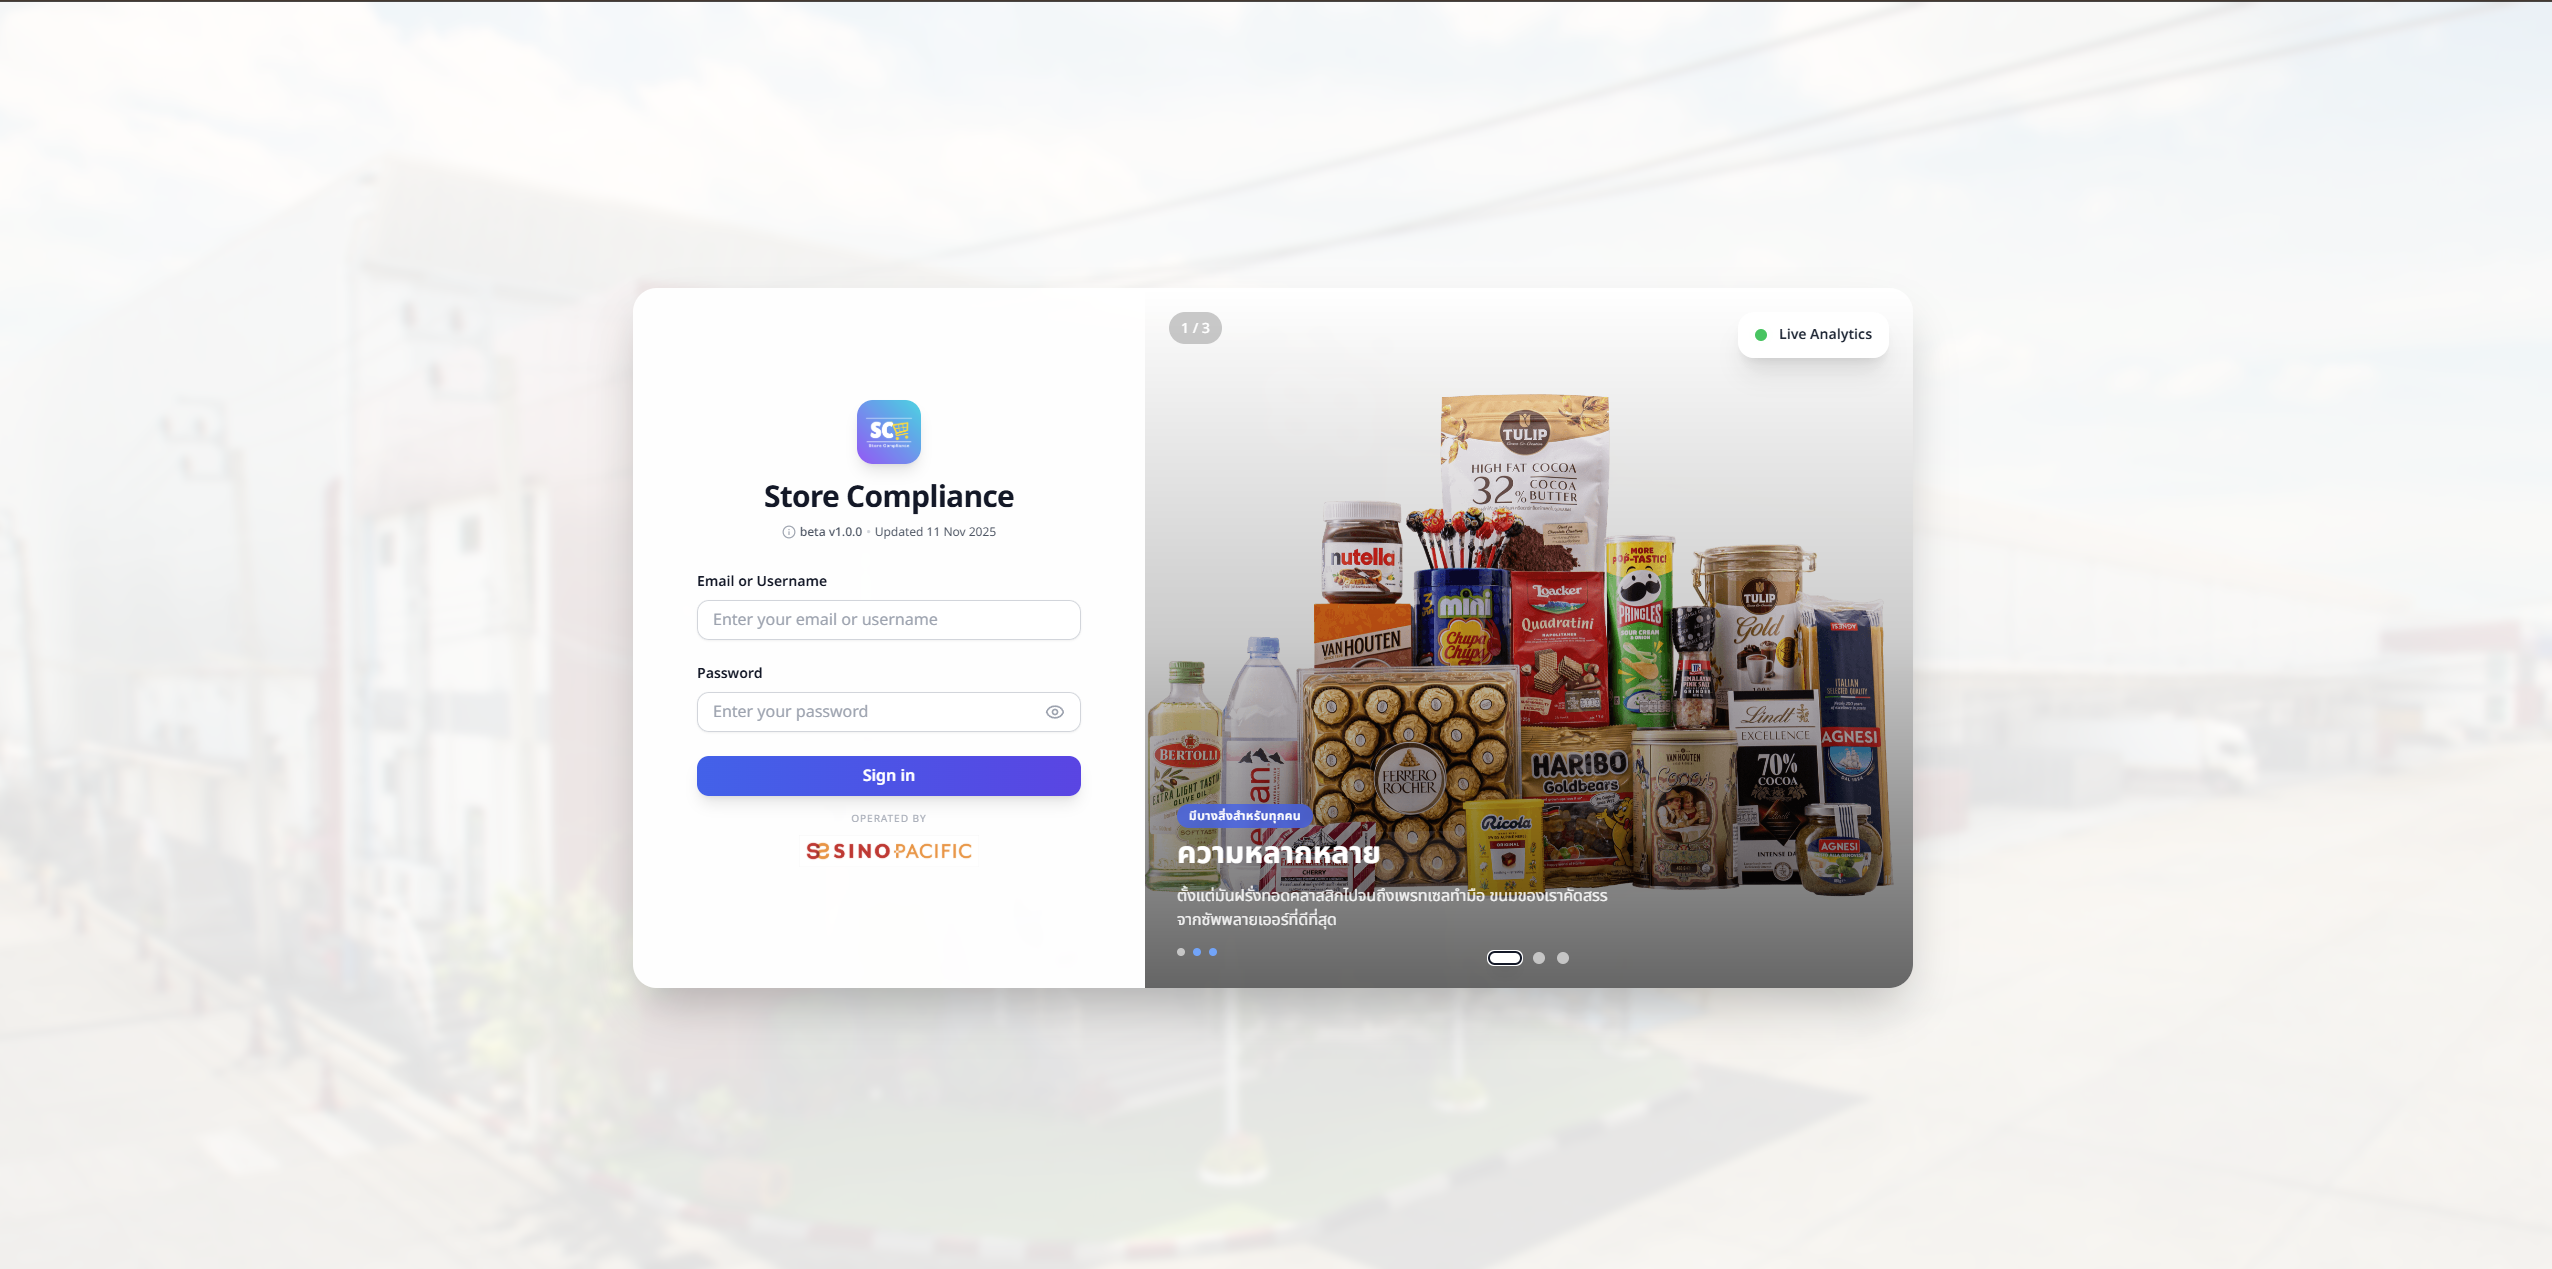
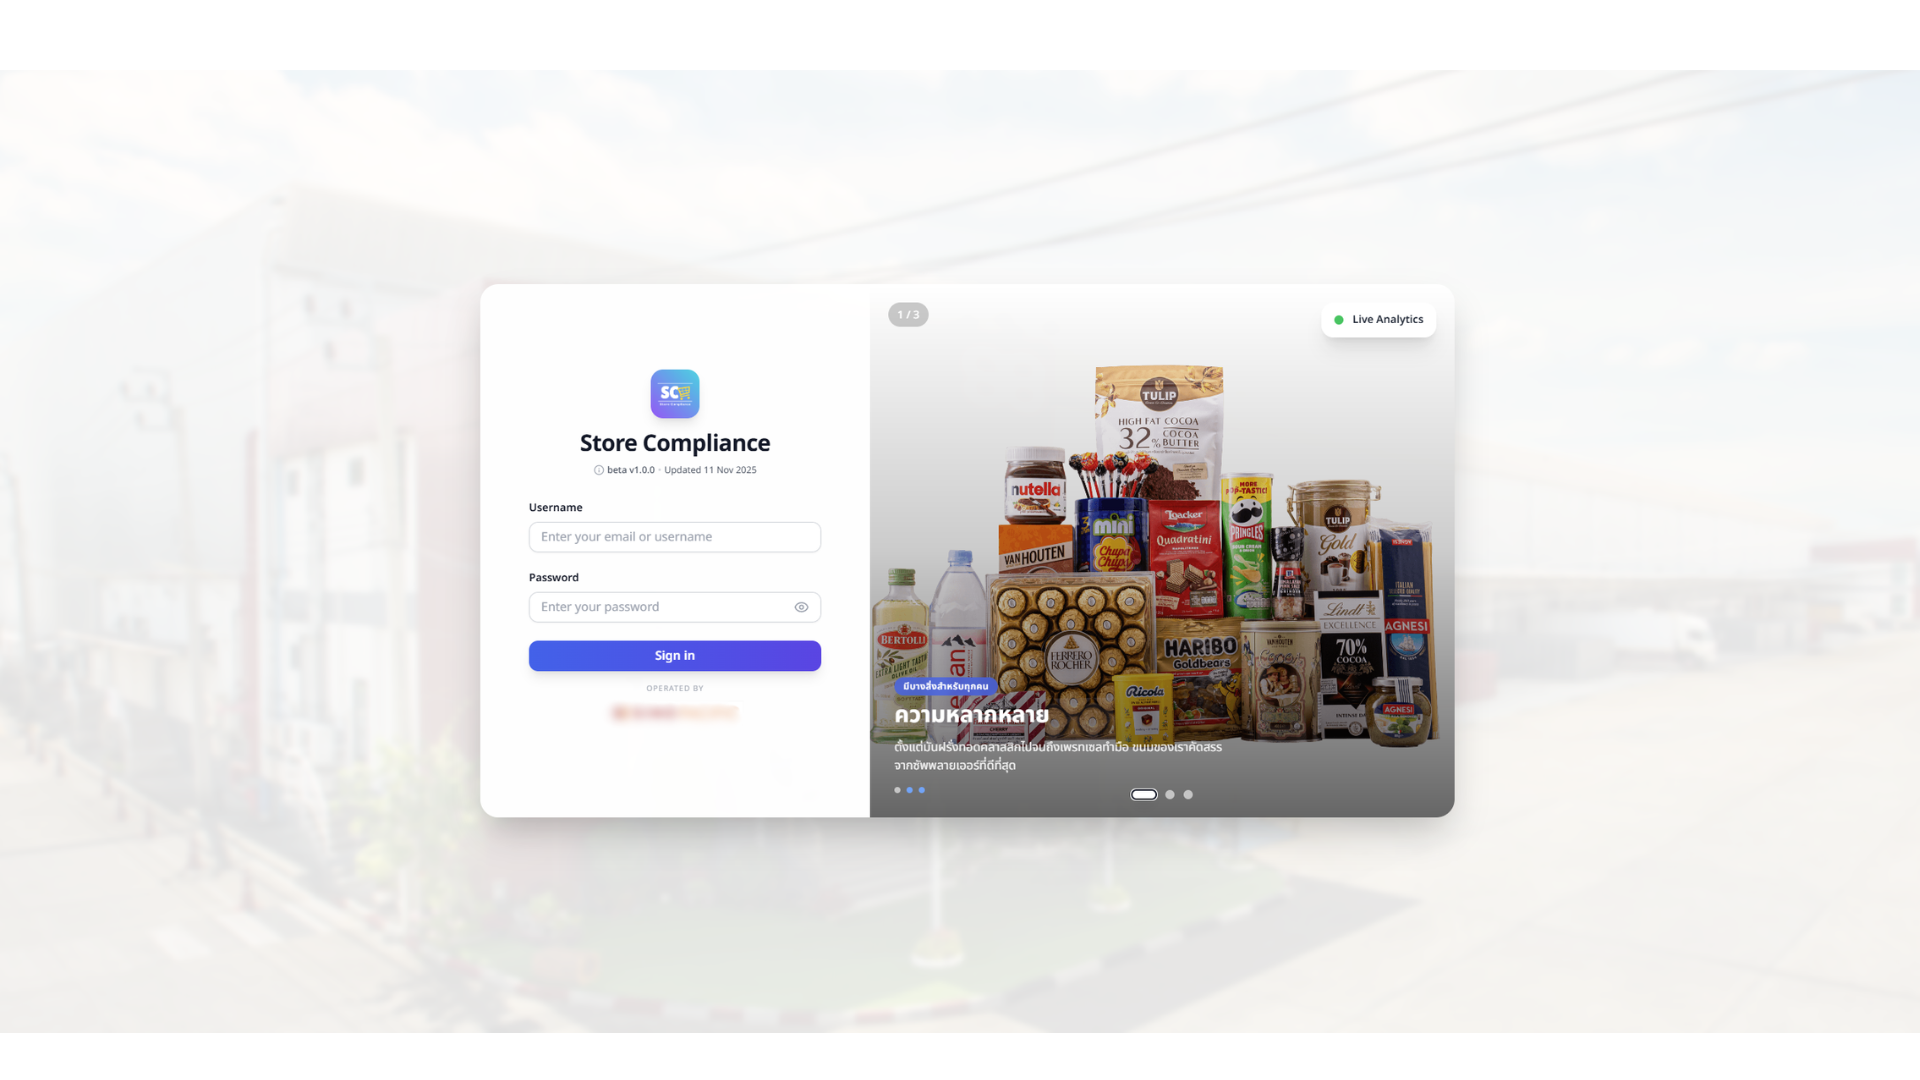
.

diff --git a/src/sections/Projects.tsx b/src/sections/Projects.tsx
@@ -121,48 +121,25 @@ export const ProjectsSection = () => {
     },
 
    {
-      title: "Debit System & Centralized Control Hub — Security Overhaul",
+      title: "Debit System & Centralized Control Hub",
       description:
-        "Developed a comprehensive internal debit management system focusing on enterprise-grade security and scalable architecture. The project replaced flawed, scattered legacy authorization structures with a robust, centralized ecosystem that unifies permission management across multiple applications.",
-      image: DebitLogin.src, // เปลี่ยนเป็นตัวแปรรูปของคุณ
-      additionalImages: [DebitDashboard.src, DebitReport.src], // เปลี่ยนเป็นตัวแปรรูปของคุณ
-
+        "Architected and developed a comprehensive internal debit management system entirely from scratch. This enterprise-grade platform standardizes complex operational workflows, featuring advanced data visualization, automated document generation, and a strictly governed, centralized security architecture.",
+      image: DebitLogin.src, 
+      additionalImages: [DebitDashboard.src,DebitDashboard.src, DebitReport.src], 
       details: [
-        "Strict RBAC Architecture: Engineered Role-Based Access Control from the ground up, securing both UI rendering (component-level guards) and backend API endpoints (Secure by Default).",
-        "The 'Control Hub' Initiative: Architected a decoupled, centralized platform to unify permission management, user roles, and system maintenance modes across the entire enterprise ecosystem.",
-        "Type-Safe Foundation: Built a scalable frontend architecture using React, Vite, and TypeScript, enforcing strict code quality and maintainability standards for future developers.",
-        "Legacy Refactoring: Audited and resolved vulnerabilities in the previous access system, migrating hardcoded, fragmented permission logic into a single, reliable source of truth.",
+        "Advanced Data Visualization: Engineered complex Master-Detail (Parent-Child) tables and intuitive Drag-and-Drop interfaces for seamless data management.",
+        "Automated PDF Engine: Developed a custom, in-browser PDF layout engine for pixel-perfect document rendering and automated exporting.",
+        "Dynamic RBAC Security: Implemented strict Role-Based Access Control with real-time UI/Role switching and strictly guarded API endpoints.",
+        "Centralized Control Hub: Architected a decoupled admin platform to unify permission management and maintenance modes across the ecosystem.",
+        "Enterprise DevOps: Managed the entire server infrastructure, establishing zero-downtime CI/CD pipelines utilizing Nginx, PM2, and Docker on Ubuntu.",
+        "Code Governance: Enforced strict code quality standards, governed Git version control workflows, and built a type-safe foundation using TypeScript."
       ],
-      technologies: "React, Vite, TypeScript, Node.js, Express, RBAC",
+      technologies: "React, Vite, TypeScript, Node.js, Express, Docker, CI/CD",
       duration: "Ongoing",
-      role: "Lead Full-Stack Developer. Refactored legacy backend flows, enforced code quality standards, and built the modern frontend architecture from scratch.",
+      role: "Lead Full-Stack Developer & Architect. Single-handedly managed the entire product lifecycle — from UX/UI design and complex frontend state management to backend architecture, version control, and production deployment.",
       outcome:
-        "Successfully delivered a highly secure application and established a new centralized architectural standard (The Control Hub) for all future internal web projects, significantly reducing the overhead of managing user permissions.",
+        "Successfully delivered a highly secure, feature-rich application that eliminated manual debit processes. Established a new organizational benchmark for code quality, version control, and automated deployment standards.",
       links: {}
-    },
-
-    {
-      title: "LawBuddy (Winning 2nd NSC 2024 🏆)",
-      description:
-        "This law platform, developed as my 3rd-year project at KMUTT, won 2nd place in the 2024 NSC competition 🏆. It features a chatbot for legal inquiries in Thai and interactive tools for learning about the law, making legal knowledge more accessible and engaging.",
-      image: LawyerProject1.src,
-      additionalImages: [LawyerDetails.src, LawyerChatbot.src],
-      details: [
-        "AI Search: Easily find legal information with intelligent search functionality.",
-        "AI Chatbot: Ask legal questions in Thai and receive accurate, AI-powered responses.",
-        "AI Education: Interactive tools and resources to help users learn about the law effectively",
-      ],
-      technologies: "PostgreSQL, Django, React, Python, TailwindCSS, OpenAI API",
-      duration: "5 months",
-      role: "Lead Developer and AI Integration Specialist. I was responsible for designing and implementing the chatbot functionality, integrating the AI models, and developing the user interface.",
-      outcome:
-        "The project won 2nd place in the 2024 NSC competition and is now being considered for further development as a commercial product to help make legal information more accessible to the Thai public.",
-      links: {
-        figma:
-          "https://www.figma.com/design/EICm7xZ90ZWiUCvqzDFQbK/Lewyer-Near-U?node-id=1306-4413&t=TBKWDbZ0ye7zXBUW-1",
-        canva:
-          "https://www.canva.com/design/DAGip0LBN3s/p_Oa66Oxc8BBSDs2mGV82Q/edit?utm_content=DAGip0LBN3s&utm_campaign=designshare&utm_medium=link2&utm_source=sharebutton",
-      },
     },
     {
       title: "Nitrogen Consumption",

diff --git a/src/components/ProjectCard.tsx b/src/components/ProjectCard.tsx
@@ -171,59 +171,68 @@ const GalleryGrid = ({
   onOpen: (index: number) => void
 }) => {
   const count = allImages.length
+  const displayCount = Math.min(count, 3)
+  const displayImages = allImages.slice(0, displayCount)
+  const remainingCount = count - displayCount
 
   const getGridClass = () => {
-    if (count === 1) return "grid-cols-1"
-    if (count === 2) return "grid-cols-2"
-    if (count === 3) return "grid-cols-2"   // 1 full-width + 2 equal below
-    if (count === 4) return "grid-cols-2"
-    return "grid-cols-3"
+    if (displayCount === 1) return "grid-cols-1"
+    if (displayCount === 2) return "grid-cols-2"
+    return "grid-cols-2" // displayCount === 3
   }
 
   const getItemClass = (index: number) => {
-    if (count >= 3 && index === 0) {
-      if (count === 3) return "col-span-2"   // full row in 2-col grid
-      if (count === 4) return "col-span-2"
-      return "col-span-2 row-span-2"        // 5+: top-left big
-    }
+    if (displayCount === 3 && index === 0) return "col-span-2"
     return ""
   }
 
   const getHeightClass = (index: number) => {
-    if (count === 1) return "h-72 md:h-80"
-    if (count === 2) return "h-60"
-    if (count === 3) return index === 0 ? "h-60" : "h-44"
-    if (count === 4) return index === 0 ? "h-56" : "h-40"
-    if (index === 0) return "h-full min-h-[14rem]"
+    if (displayCount === 1) return "h-72 md:h-80"
+    if (displayCount === 2) return "h-60"
+    if (displayCount === 3) return index === 0 ? "h-60" : "h-44"
     return "h-36"
   }
 
   return (
     <div className={`grid ${getGridClass()} gap-2 mb-8`}>
-      {allImages.map((img, index) => (
-        <motion.div
-          key={index}
-          className={`relative overflow-hidden rounded-lg cursor-pointer group ${getItemClass(index)} ${getHeightClass(index)}`}
-          initial={{ opacity: 0 }}
-          animate={{ opacity: 1 }}
-          transition={{ delay: 0.3 + index * 0.07 }}
-          whileHover={{ scale: 1.02 }}
-          onClick={() => onOpen(index)}
-        >
-          <Image
-            src={img}
-            alt={`${title} — view ${index + 1}`}
-            fill
-            sizes="(max-width: 768px) 100vw, (max-width: 1200px) 50vw, 33vw"
-            className="object-cover transition-transform duration-500 group-hover:scale-105"
-          />
-          <div className="absolute inset-0 bg-black/0 group-hover:bg-black/30 transition-all duration-300 flex items-center justify-center">
-            <span className="text-white text-xs font-medium opacity-0 group-hover:opacity-100 transition-opacity bg-black/50 px-3 py-1 rounded-full">
-              View fullscreen
-            </span>
-          </div>
-        </motion.div>
-      ))}
+      {displayImages.map((img, index) => {
+        const isLastDisplay = index === displayCount - 1
+        const hasMore = remainingCount > 0
+
+        return (
+          <motion.div
+            key={index}
+            className={`relative overflow-hidden rounded-lg cursor-pointer group ${getItemClass(index)} ${getHeightClass(index)}`}
+            initial={{ opacity: 0 }}
+            animate={{ opacity: 1 }}
+            transition={{ delay: 0.3 + index * 0.07 }}
+            whileHover={{ scale: 1.02 }}
+            onClick={() => onOpen(index)}
+          >
+            <Image
+              src={img}
+              alt={`${title} — view ${index + 1}`}
+              fill
+              sizes="(max-width: 768px) 100vw, (max-width: 1200px) 50vw, 33vw"
+              className="object-cover transition-transform duration-500 group-hover:scale-105"
+            />
+            {/* Standard hover overlay */}
+            <div
+              className={`absolute inset-0 transition-opacity duration-300 flex items-center justify-center
+                ${isLastDisplay && hasMore ? "bg-black/50 hover:bg-black/40" : "bg-black/0 hover:bg-black/20"}
+              `}
+            >
+              {isLastDisplay && hasMore && (
+                <div className="flex flex-col items-center justify-center">
+                  <span className="text-white text-3xl md:text-4xl font-light tracking-wider drop-shadow-md">
+                    +{remainingCount}
+                  </span>
+                </div>
+              )}
+            </div>
+          </motion.div>
+        )
+      })}
     </div>
   )
 }

diff --git a/src/app/layout.tsx b/src/app/layout.tsx
@@ -12,6 +12,8 @@ export const metadata: Metadata = {
   description: "Created with the help of Frontend Tribe",
 };
 
+import { Analytics } from "@vercel/analytics/react";
+
 export default function RootLayout({
   children,
 }: Readonly<{
@@ -19,7 +21,10 @@ export default function RootLayout({
 }>) {
   return (
     <html lang="en">
-      <body className={twMerge(inter.variable, calistoga.variable,"bg-gray-900 text-white antialiased font-sans")}>{children}</body>
+      <body className={twMerge(inter.variable, calistoga.variable,"bg-gray-900 text-white antialiased font-sans")}>
+        {children}
+        <Analytics />
+      </body>
     </html>
   );
 }
